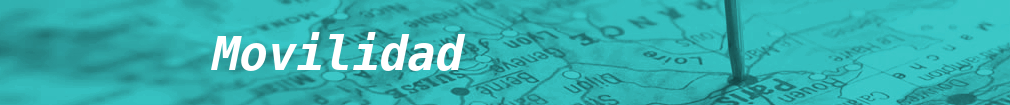
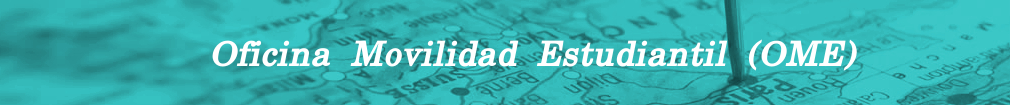
Modificacion tabla alojamientos, Header, mision y vision, bloqueo de usuarios por administrador

Changed region(s): [[0.1842, 0.3143, 0.8594, 0.6857]]

diff --git a/resources/views/welcome/partials/noticias.blade.php b/resources/views/welcome/partials/noticias.blade.php
@@ -1,5 +1,5 @@
 <div class="panel panel-success">
-  <div class="panel-heading">Noticias</div>
+  <div class="panel-heading">Sobre el departamento</div>
   <div class="panel-body scroll">
    Lorem ipsum dolor sit amet, consectetur adipisicing elit. Assumenda facere, qui fugiat. Porro eum eos unde debitis magni ad labore totam, vel inventore sapiente ea! Possimus impedit accusantium blanditiis sequi!Eius delectus perferendis quibusdam omnis quod possimus consectetur eos, similique dolores. Odio quo eius quas quia, dolor in saepe id! Maiores accusantium consequuntur illo non cumque obcaecati perspiciatis, minus est.Harum laborum cupiditate eaque inventore laboriosam, alias, consectetur. Similique sapiente, ad perspiciatis soluta neque assumenda officiis quo? Voluptatum, quos, nobis! Iste, totam alias dignissimos qui? Asperiores voluptate accusamus sapiente voluptatibus?A, deserunt. Porro magni atque aperiam iure nemo id dolore, dolorem quas, nulla maxime culpa consequuntur saepe quod libero quaerat delectus ullam a, dolores nesciunt similique placeat temporibus recusandae. Accusamus.Numquam voluptatum, porro quam amet suscipit maxime fugiat alias tempora omnis mollitia voluptatibus natus laborum, temporibus totam explicabo hic, similique pariatur quasi iste assumenda. Tenetur modi ex nihil expedita laborum.Ullam animi adipisci alias dolor accusamus illo numquam dolores hic ipsam accusantium unde, natus earum cupiditate doloribus quisquam, obcaecati velit rem, deserunt voluptatibus ab reprehenderit maxime blanditiis dicta voluptates molestias.Illum nisi autem necessitatibus aperiam voluptatibus, fuga vel aliquid, ipsam beatae provident inventore voluptates, consectetur quo officiis? Animi minus assumenda eum corrupti cumque fugit eaque, at cupiditate laudantium id error!Animi officiis veritatis error officia libero possimus fugit minus, repellendus, saepe alias quasi deserunt quia exercitationem nulla delectus dicta, eaque voluptas! Sed delectus enim maxime iusto dolorum quaerat voluptatem. Cum!Est tempora, ducimus, repellendus id sed amet esse aut dolor temporibus incidunt! Praesentium eos iure facilis deleniti tempore alias nostrum nemo, distinctio voluptas similique, quibusdam natus accusantium placeat molestiae consequuntur.
   </div>

diff --git a/resources/views/guest/contacto.blade.php b/resources/views/guest/contacto.blade.php
@@ -3,7 +3,39 @@
 
 @section('content')
 
-<h2>Contactos</h2>
+<h2>CONTACTO</h2>
+<br>
+<p>La Oficina de Movilidad Estudiantil, (OME) está conformada por la Coordinadora, Sra. Marta
+
+Rojas G. y la Encargada de Eestudiantes de intercambio (entrantes y salientes), Srta. Macarena
+
+Agüero B., a quienes puedes contactar en el correo electrónico movilidadestudiantil@uach.cl.
+
+Ubicada en el Campus Teja, Vicerrectoría Académica, 2º piso, oficina Nº4 y 5.</p>
+
+<div class="row">
+	<div class="col-lg-6">
+
+	
+<img src="/plugins/uach/img/Marta_Rojas.png">
+<p>Marta Rojas G<p>
+<p>Correo@algo.cl<p>
+
+
+	</div>
+
+	<div class="col-lg-6">
+
+<img src="/plugins/uach/img/Macarena_Aguero.png">
+<p>Macarena Agüero B.</p>
+<p>Correo@algo.cl<p>
+
+
+	</div>
+</div>
+
+
+
 
 
 

diff --git a/resources/views/alojamientos/partials/table.blade.php b/resources/views/alojamientos/partials/table.blade.php
@@ -7,9 +7,11 @@
                          <th>#</th>
                         <th>Tipo</th>
                         <th>Direccion</th>
+                        <th>Contacto</th>
+                        <th>Descripción</th>
                         <th>Telefono</th>
                         <th>Precio</th>
-                        <th>Acciones</th>              
+                        <th>Acciones</th>
                     </tr>
                 </thead>
             </table>

diff --git a/database/seeds/AlojamientoTableSeeder.php b/database/seeds/AlojamientoTableSeeder.php
@@ -23,6 +23,8 @@ class AlojamientoTableSeeder extends Seeder
             $samples_temp[] = [
                 'tipo'=> $alojamiento[$tempAl],
                 'direccion' => $faker->address,
+                'contacto' => $faker->lastName,
+                'descripcion' => $faker->text($maxNbChars = 500),
                 'precio'=>$faker->numberBetween($min = 30000, $max = 200000),
                 'telefono' => $faker->phoneNumber 
             ];

diff --git a/database/migrations/2016_03_29_190610_create_alojamiento_table.php b/database/migrations/2016_03_29_190610_create_alojamiento_table.php
@@ -17,6 +17,8 @@ class CreateAlojamientoTable extends Migration
             $table->increments('id');
             $table->enum('tipo', ['Cabaña','Casa','Departamento','Hostal','Pension','Pieza']);
             $table->string('direccion',100);
+            $table->string('contacto',100);
+            $table->string('descripcion',500);
             $table->string('precio',100);
             $table->string('telefono',20);
         });

diff --git a/resources/views/guest/mision.blade.php b/resources/views/guest/mision.blade.php
@@ -4,6 +4,14 @@
 @section('content')
 
 <h2>Misión</h2>
+<br>
+<p>Informar, guiar y difundir entre los estudiantes las posibilidades de movilidad estudiantil en el
+
+contexto de convenios bilaterales firmados con universidades extranjeras y nacionales.
+
+Asi mismo, facilitar a los estudiantes el apoyo necesario para concretar la actividad académica
+
+en la universidad de destino.</p>
 
 
 

diff --git a/resources/views/alojamientos/index.blade.php b/resources/views/alojamientos/index.blade.php
@@ -39,6 +39,8 @@ var dt = $('#tableAlojamientos').DataTable( {
 			            { "data":"id" },
 			            { "data":"tipo" },
 			            { "data":"direccion" },
+			            { "data":"contacto" },
+			            { "data":"descripcion" },
 			            { "data":"telefono" },
 			            { "data":"precio" },
 			            { "data": null,

diff --git a/app/Alojamiento.php b/app/Alojamiento.php
@@ -10,6 +10,8 @@ class alojamiento extends Model
     public $timestamps = false;
     protected $fillable = ['tipo',
                            'direccion',
+                           'contacto',
+                           'descripcion',
                            'precio',
                            'telefono']; 
 
